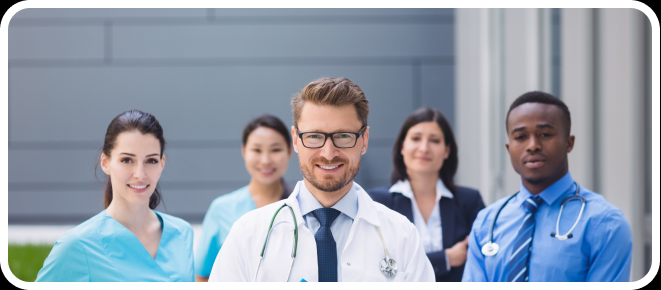
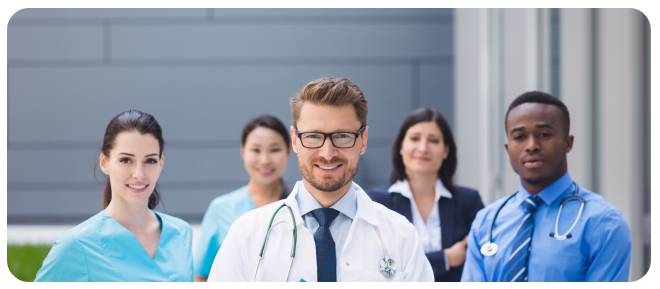
service section responsive update

diff --git a/index.html b/index.html
@@ -314,14 +314,14 @@
               <div class="col-6">
                 <img
                   class="img-fluid expert-img"
-                  src="assets/images/1-1.png"
+                  src="assets/images/Rectangle 8801.png"
                   alt=""
                 />
               </div>
               <div class="col-6">
                 <img
-                  class="img-fluid expert-img"
-                  src="assets/images/1-1.png"
+                  class="expert-img img-fluid"
+                  src="assets/images/Rectangle 8801.png"
                   alt=""
                 />
               </div>
